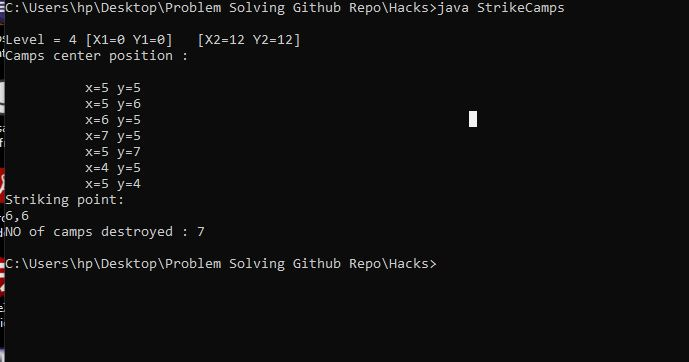
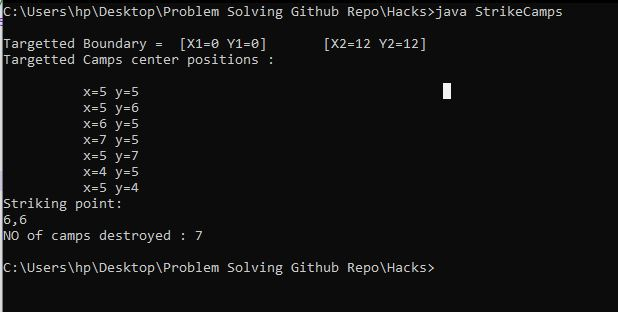
added readme to strike the camps2

Changed region(s): [[0.0, 0.0, 0.9223, 1.0], [0.5227, 0.1154, 0.7071, 0.1731], [0.6764, 0.2596, 0.7379, 0.3462]]

diff --git a/Hacks/StrikeCamps.java b/Hacks/StrikeCamps.java
@@ -77,13 +77,13 @@ class QuadTree {
 		
 		
 		if(tree.upperLeft == null) {
-			System.out.printf("\nBoundary = %d [X1=%d Y1=%d] \t[X2=%d Y2=%d] ",
-				tree.level, tree.boundry.getxMin(), tree.boundry.getyMin(),
+			System.out.printf("\nTargetted Boundary =  [X1=%d Y1=%d] \t[X2=%d Y2=%d] ",
+				 tree.boundry.getxMin(), tree.boundry.getyMin(),
 				tree.boundry.getxMax(), tree.boundry.getyMax());
 				
-			System.out.println("\nCamps center position :");
+			System.out.println("\nTargetted Camps center positions :");
 			for (Point Point : tree.points) {
-				System.out.printf("Striking point= \n\t  x=%d y=%d", Point.x, Point.y);
+				System.out.printf("\n\t  x=%d y=%d", Point.x, Point.y);
 			}
 			System.out.println("\nStriking point: ");
 			System.out.println(tree.boundry.getCenterX()+","+tree.boundry.getCenterY());
